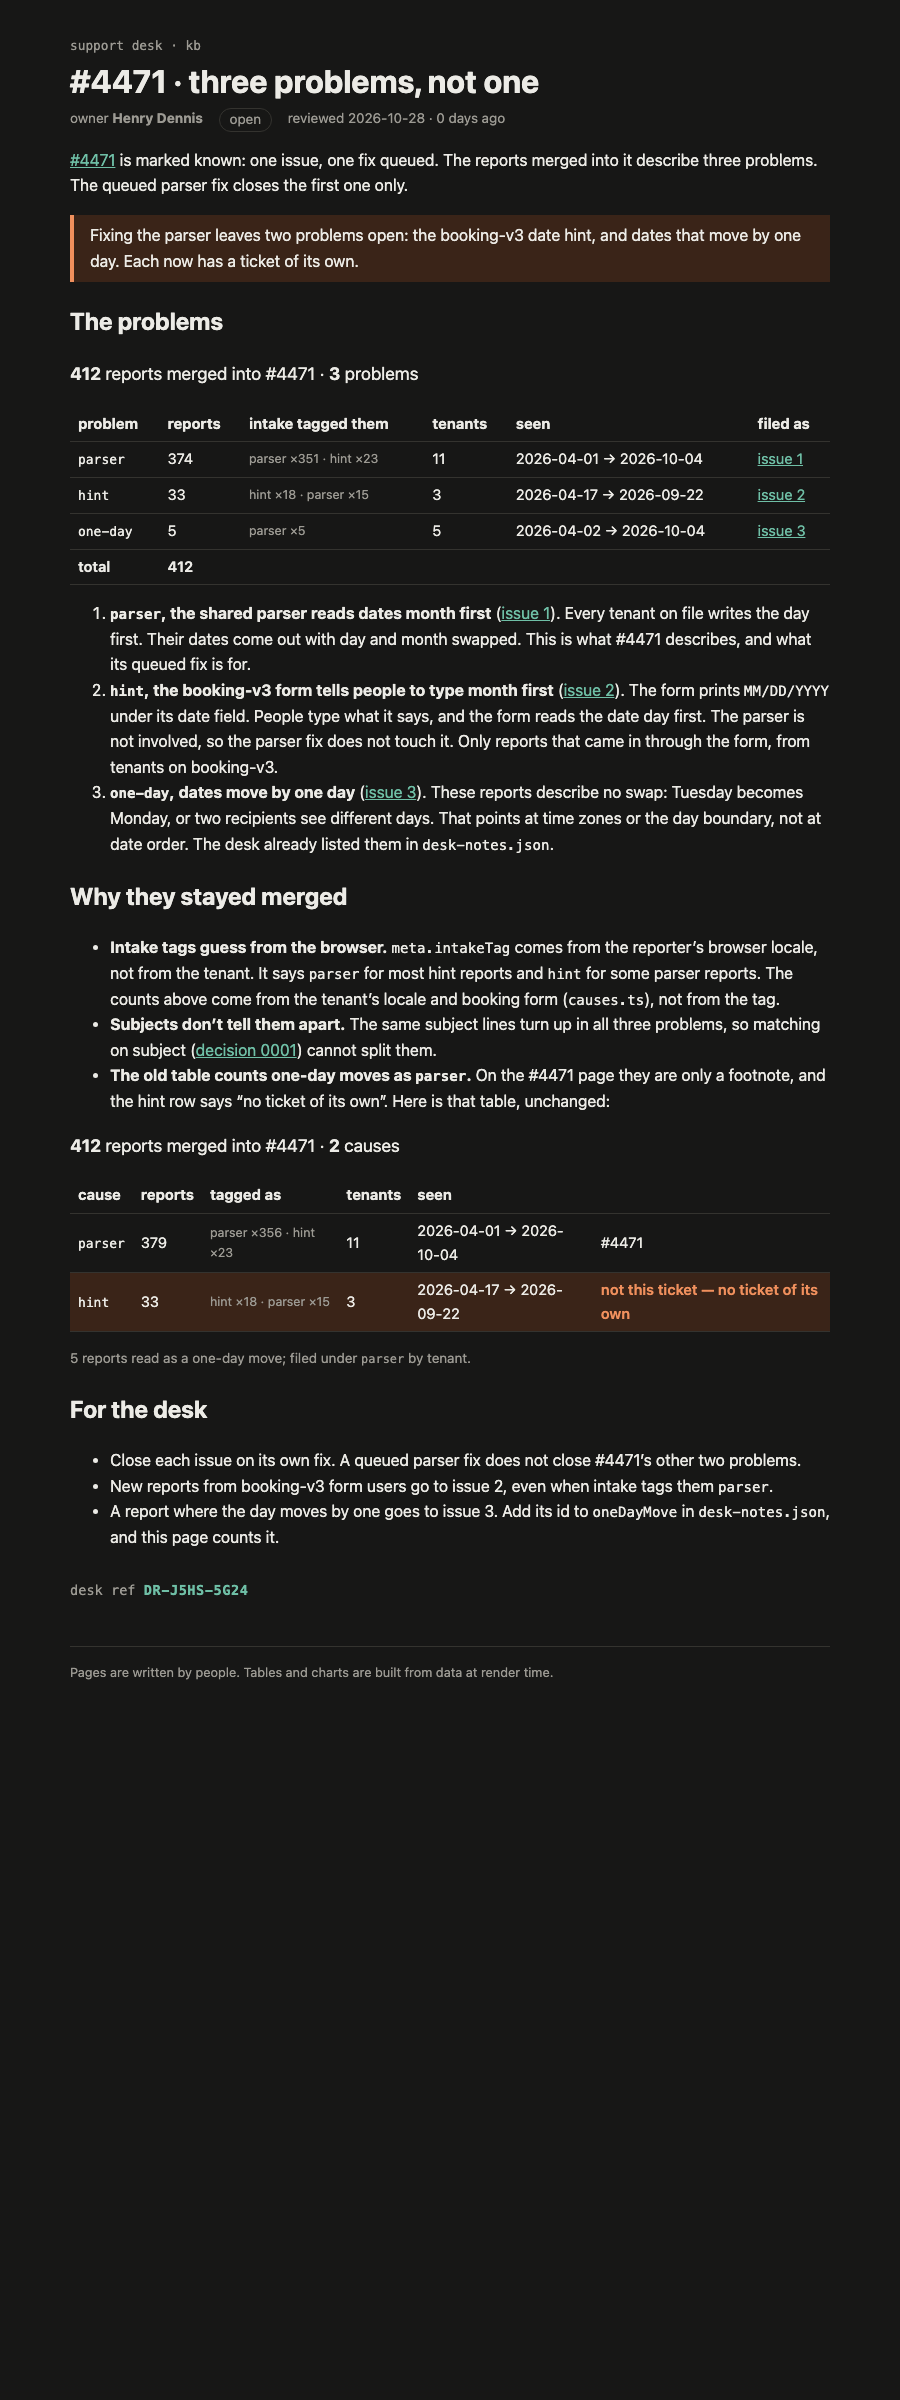
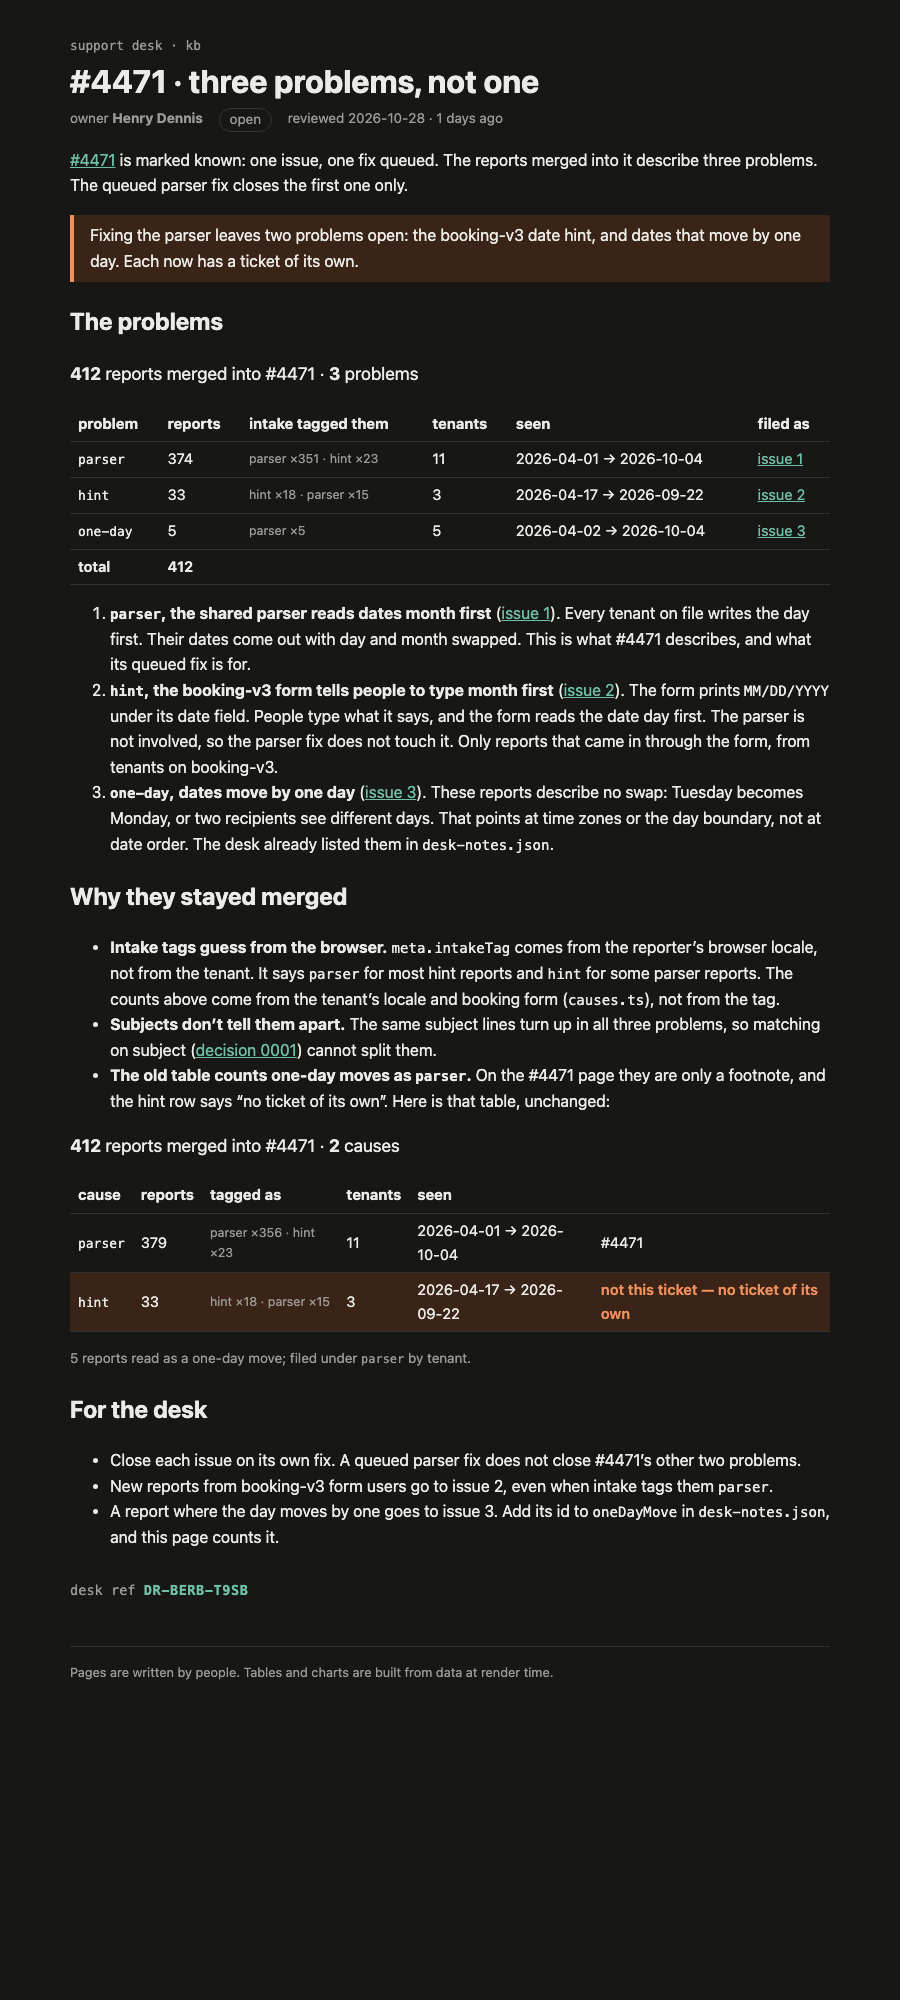
Sign the #4471 page with the Challenge ticket
The course reads the page's signature as its ticket. Re-rendered the page
(desk ref DR-BERB-T9SB).

Changed region(s): [[0.0622, 0.0, 0.9333, 0.806]]

diff --git a/rendered/4471-problems.html b/rendered/4471-problems.html
@@ -24,7 +24,7 @@
 </style>
 		<style>.sum.svelte-1op6c6{font-size:1.1rem}.tags.svelte-1op6c6{color:var(--muted);font-size:.85em}.unfiled.svelte-1op6c6 td:where(.svelte-1op6c6){background:var(--warn-bg)}.unfiled.svelte-1op6c6 td:where(.svelte-1op6c6):last-child{color:var(--warn);font-weight:600}tfoot.svelte-1op6c6 td:where(.svelte-1op6c6){font-weight:600}.stamp.svelte-1280m42{margin:2rem 0 0;font:.85rem var(--mono);color:var(--muted)}.stamp.svelte-1280m42 b:where(.svelte-1280m42){color:var(--accent);letter-spacing:.04em}.missing.svelte-1280m42{color:var(--warn)}
 </style></head>
-<body><div style="display: contents"><!--[--><!--[0--><!--[--><!--[--><div class="kb svelte-e2jw2j"><header><a class="crumb svelte-e2jw2j" href="/kb">support desk · kb</a> <h1 class="svelte-e2jw2j">#4471 · three problems, not one</h1> <p class="meta svelte-e2jw2j"><span>owner <b>Henry Dennis</b></span> <span class="status open svelte-e2jw2j">open</span> <span class="svelte-e2jw2j">reviewed 2026-10-28 · 0 days ago</span></p></header> <!--[-1--><!--]--> <main><p><a href="/kb/incidents/4471">#4471</a> is marked known: one issue, one fix queued. The reports merged into it
+<body><div style="display: contents"><!--[--><!--[0--><!--[--><!--[--><div class="kb svelte-e2jw2j"><header><a class="crumb svelte-e2jw2j" href="/kb">support desk · kb</a> <h1 class="svelte-e2jw2j">#4471 · three problems, not one</h1> <p class="meta svelte-e2jw2j"><span>owner <b>Henry Dennis</b></span> <span class="status open svelte-e2jw2j">open</span> <span class="svelte-e2jw2j">reviewed 2026-10-28 · 1 days ago</span></p></header> <!--[-1--><!--]--> <main><p><a href="/kb/incidents/4471">#4471</a> is marked known: one issue, one fix queued. The reports merged into it
 describe three problems. The queued parser fix closes the first one only.</p> <aside class="warn svelte-17bri61"><!---->Fixing the parser leaves two problems open: the booking-v3 date hint, and dates that move by one day.
 Each now has a ticket of its own.<!----></aside><!----> <h2>The problems</h2> <p class="sum svelte-1op6c6"><strong>412</strong> reports merged into #4471 · <strong>3</strong> problems</p> <table><thead><tr><th>problem</th><th>reports</th><th>intake tagged them</th><th>tenants</th><th>seen</th><th>filed as</th></tr></thead><tbody><!--[--><tr class="svelte-1op6c6"><td class="svelte-1op6c6"><code>parser</code></td><td class="svelte-1op6c6">374</td><td class="tags svelte-1op6c6">parser ×351 · hint ×23</td><td class="svelte-1op6c6">11</td><td class="svelte-1op6c6">2026-04-01 → 2026-10-04</td><td class="svelte-1op6c6"><!--[0--><a href="https://github.com/henrydennis/what-it-shows/issues/1">issue 1</a><!--]--></td></tr><tr class="svelte-1op6c6"><td class="svelte-1op6c6"><code>hint</code></td><td class="svelte-1op6c6">33</td><td class="tags svelte-1op6c6">hint ×18 · parser ×15</td><td class="svelte-1op6c6">3</td><td class="svelte-1op6c6">2026-04-17 → 2026-09-22</td><td class="svelte-1op6c6"><!--[0--><a href="https://github.com/henrydennis/what-it-shows/issues/2">issue 2</a><!--]--></td></tr><tr class="svelte-1op6c6"><td class="svelte-1op6c6"><code>one-day</code></td><td class="svelte-1op6c6">5</td><td class="tags svelte-1op6c6">parser ×5</td><td class="svelte-1op6c6">5</td><td class="svelte-1op6c6">2026-04-02 → 2026-10-04</td><td class="svelte-1op6c6"><!--[0--><a href="https://github.com/henrydennis/what-it-shows/issues/3">issue 3</a><!--]--></td></tr><!--]--></tbody><tfoot class="svelte-1op6c6"><tr><td class="svelte-1op6c6">total</td><td class="svelte-1op6c6">412</td><td colspan="4" class="svelte-1op6c6"></td></tr></tfoot></table><!----> <ol><li><strong><code>parser</code>, the shared parser reads dates month first</strong> (<a href="https://github.com/henrydennis/what-it-shows/issues/1" rel="nofollow">issue 1</a>).
 Every tenant on file writes the day first. Their dates come out with day and month swapped.
@@ -38,7 +38,7 @@ in <code>desk-notes.json</code>.</li></ol> <h2>Why they stayed merged</h2> <ul><
 not from the tenant. It says <code>parser</code> for most hint reports and <code>hint</code> for some parser reports.
 The counts above come from the tenant’s locale and booking form (<code>causes.ts</code>), not from the tag.</li> <li><strong>Subjects don’t tell them apart.</strong> The same subject lines turn up in all three problems,
 so matching on subject (<a href="/kb/decisions/0001-dedupe-by-subject">decision 0001</a>) cannot split them.</li> <li><strong>The old table counts one-day moves as <code>parser</code>.</strong> On the #4471 page they are only a footnote,
-and the hint row says “no ticket of its own”. Here is that table, unchanged:</li></ul> <p class="sum svelte-12oyimm"><strong>412</strong> reports merged into #4471 · <strong>2</strong> causes</p> <table><thead><tr><th>cause</th><th>reports</th><th>tagged as</th><th>tenants</th><th>seen</th><th></th></tr></thead><tbody><!--[--><tr class="svelte-12oyimm"><td class="svelte-12oyimm"><code>parser</code></td><td class="svelte-12oyimm">379</td><td class="tags svelte-12oyimm">parser ×356 · hint ×23</td><td class="svelte-12oyimm">11</td><td class="svelte-12oyimm">2026-04-01 → 2026-10-04</td><td class="svelte-12oyimm">#4471</td></tr><tr class="svelte-12oyimm wrong"><td class="svelte-12oyimm"><code>hint</code></td><td class="svelte-12oyimm">33</td><td class="tags svelte-12oyimm">hint ×18 · parser ×15</td><td class="svelte-12oyimm">3</td><td class="svelte-12oyimm">2026-04-17 → 2026-09-22</td><td class="svelte-12oyimm">not this ticket — no ticket of its own</td></tr><!--]--></tbody></table> <!--[--><!--[0--><p class="note svelte-12oyimm">5 reports read as a one-day move; filed under <code>parser</code> by tenant.</p><!--]--><!--[-1--><!--]--><!--]--><!----> <h2>For the desk</h2> <ul><li>Close each issue on its own fix. A queued parser fix does not close #4471’s other two problems.</li> <li>New reports from booking-v3 form users go to issue 2, even when intake tags them <code>parser</code>.</li> <li>A report where the day moves by one goes to issue 3. Add its id to <code>oneDayMove</code> in <code>desk-notes.json</code>, and this page counts it.</li></ul> <!--[0--><p class="stamp svelte-1280m42">desk ref <b class="svelte-1280m42">DR-J5HS-5G24</b></p><!--]--><!----><!----></main> <footer class="svelte-e2jw2j">Pages are written by people. Tables and charts are built from data at render time.</footer></div><!--]--><!----><!--]--><!--]--> <!--[-1--><!--]--><!--]-->
+and the hint row says “no ticket of its own”. Here is that table, unchanged:</li></ul> <p class="sum svelte-12oyimm"><strong>412</strong> reports merged into #4471 · <strong>2</strong> causes</p> <table><thead><tr><th>cause</th><th>reports</th><th>tagged as</th><th>tenants</th><th>seen</th><th></th></tr></thead><tbody><!--[--><tr class="svelte-12oyimm"><td class="svelte-12oyimm"><code>parser</code></td><td class="svelte-12oyimm">379</td><td class="tags svelte-12oyimm">parser ×356 · hint ×23</td><td class="svelte-12oyimm">11</td><td class="svelte-12oyimm">2026-04-01 → 2026-10-04</td><td class="svelte-12oyimm">#4471</td></tr><tr class="svelte-12oyimm wrong"><td class="svelte-12oyimm"><code>hint</code></td><td class="svelte-12oyimm">33</td><td class="tags svelte-12oyimm">hint ×18 · parser ×15</td><td class="svelte-12oyimm">3</td><td class="svelte-12oyimm">2026-04-17 → 2026-09-22</td><td class="svelte-12oyimm">not this ticket — no ticket of its own</td></tr><!--]--></tbody></table> <!--[--><!--[0--><p class="note svelte-12oyimm">5 reports read as a one-day move; filed under <code>parser</code> by tenant.</p><!--]--><!--[-1--><!--]--><!--]--><!----> <h2>For the desk</h2> <ul><li>Close each issue on its own fix. A queued parser fix does not close #4471’s other two problems.</li> <li>New reports from booking-v3 form users go to issue 2, even when intake tags them <code>parser</code>.</li> <li>A report where the day moves by one goes to issue 3. Add its id to <code>oneDayMove</code> in <code>desk-notes.json</code>, and this page counts it.</li></ul> <!--[0--><p class="stamp svelte-1280m42">desk ref <b class="svelte-1280m42">DR-BERB-T9SB</b></p><!--]--><!----><!----></main> <footer class="svelte-e2jw2j">Pages are written by people. Tables and charts are built from data at render time.</footer></div><!--]--><!----><!--]--><!--]--> <!--[-1--><!--]--><!--]-->
 			
 			
 		</div></body></html>
